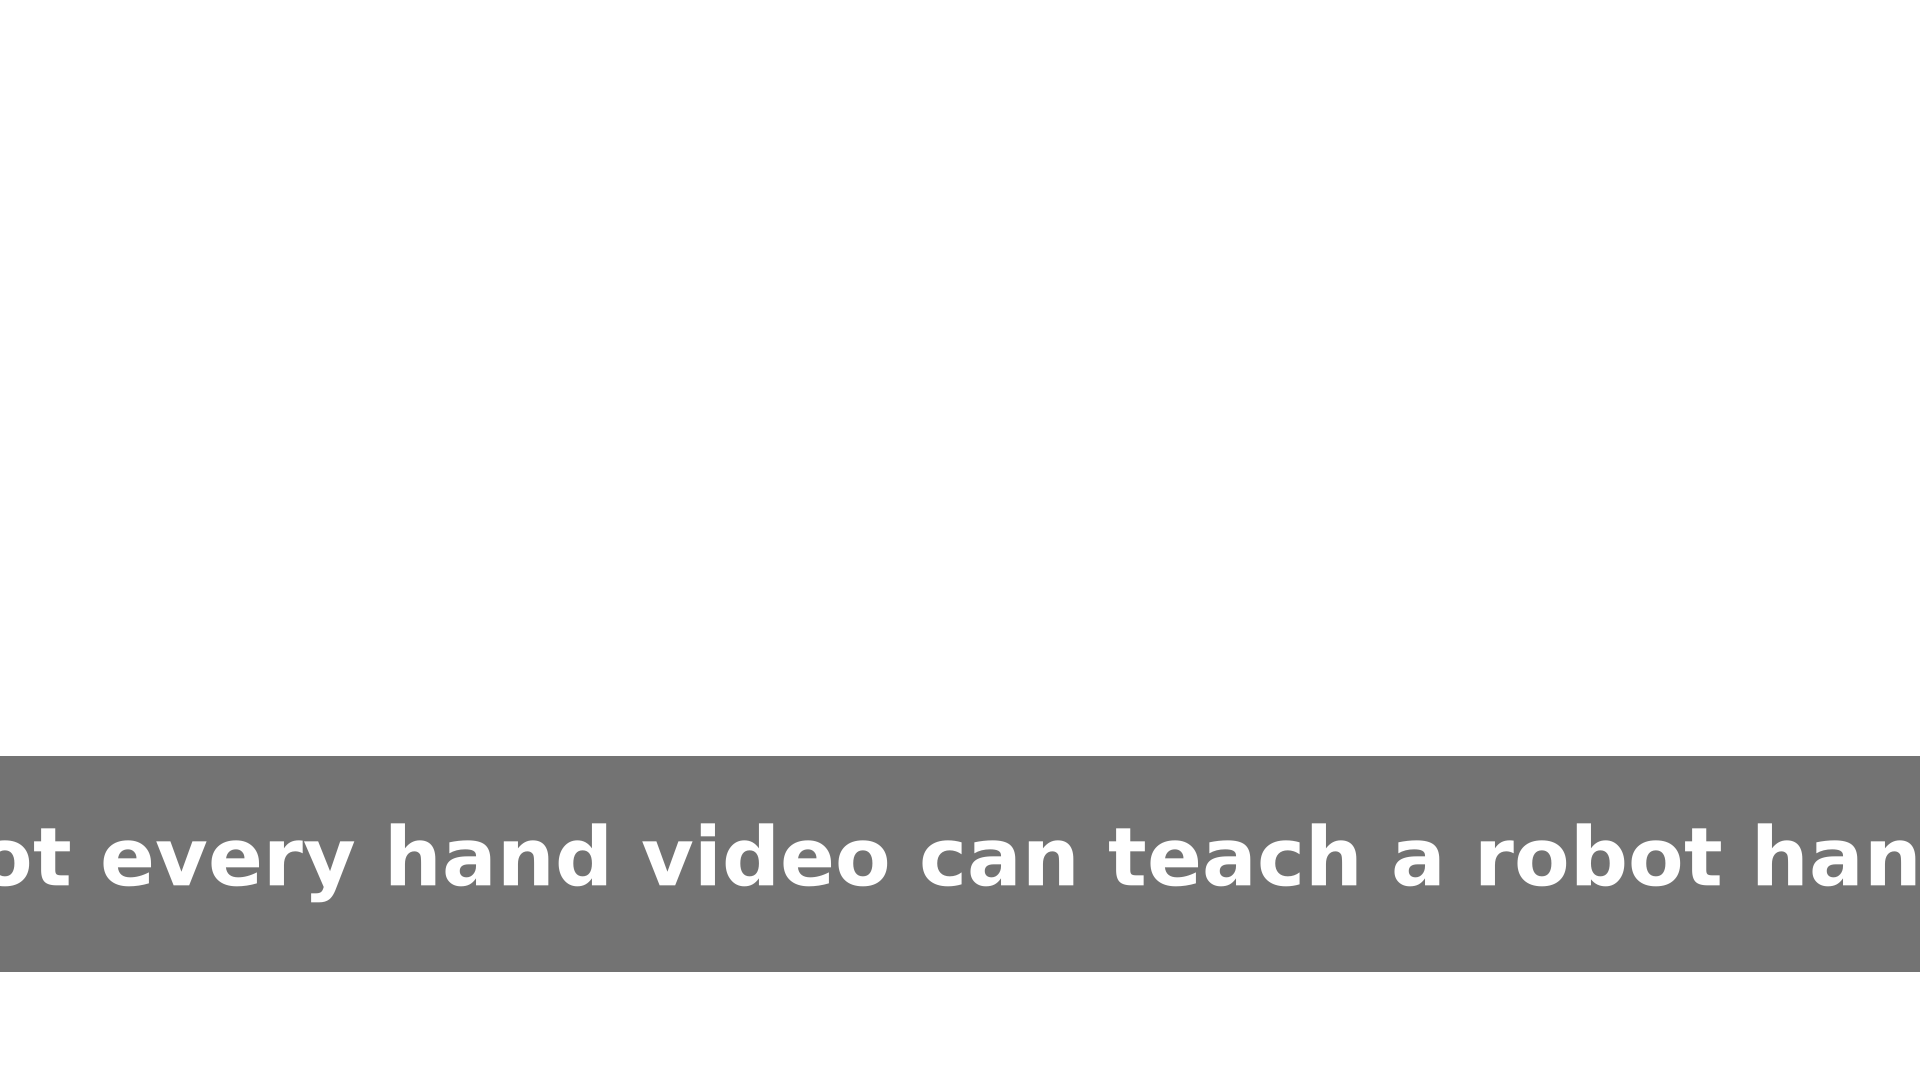
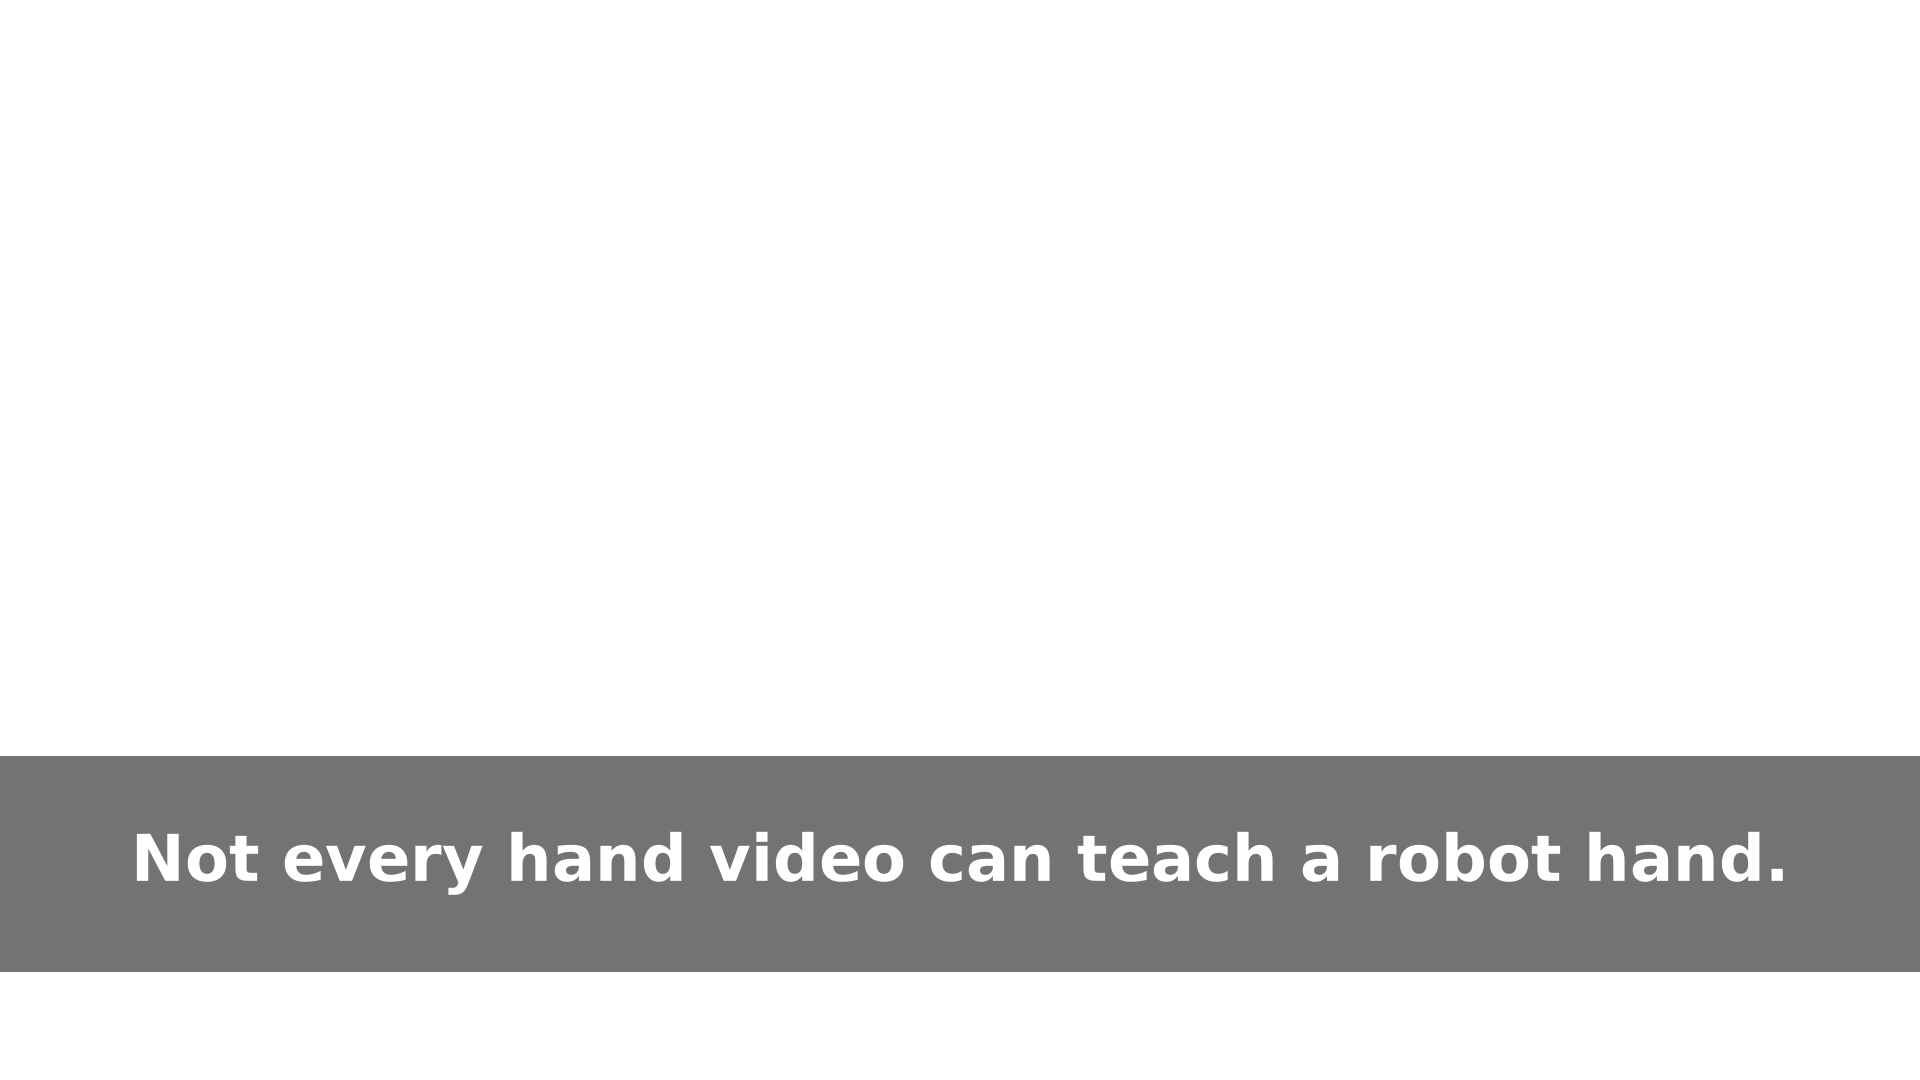
Redraw the demo title cards

Changed region(s): [[0.0, 0.7639, 1.0, 0.8556]]

diff --git a/scripts/demo_figures.py b/scripts/demo_figures.py
@@ -167,12 +167,9 @@ def cards():
     fig = canvas()
     fig.text(0.5, 0.64, "GraspGrade", fontsize=110, fontweight="bold", ha="center")
     fig.text(0.5, 0.54, "Find the hand videos a robot can learn from.", fontsize=40, ha="center", color=MUTED)
-    for x, title, sub in [(0.22, "Code", "every step,
-one script each"),
-                          (0.50, "Viewer", "held-out clips
-and episodes"),
-                          (0.78, "Benchmark", "both ground truths,
-standalone scorers")]:
+    for x, title, sub in [(0.22, "Code", "every step,\none script each"),
+                          (0.50, "Viewer", "held-out clips\nand episodes"),
+                          (0.78, "Benchmark", "both ground truths,\nstandalone scorers")]:
         fig.text(x, 0.36, title, fontsize=46, fontweight="bold", ha="center", color=HI)
         fig.text(x, 0.33, sub, fontsize=28, ha="center", va="top", color=MUTED, linespacing=1.4)
     fig.text(0.5, 0.10, "Data: OpenGraph Ego-Tactile (CC-BY-4.0)  ·  HOT3D (Meta)", fontsize=24,
